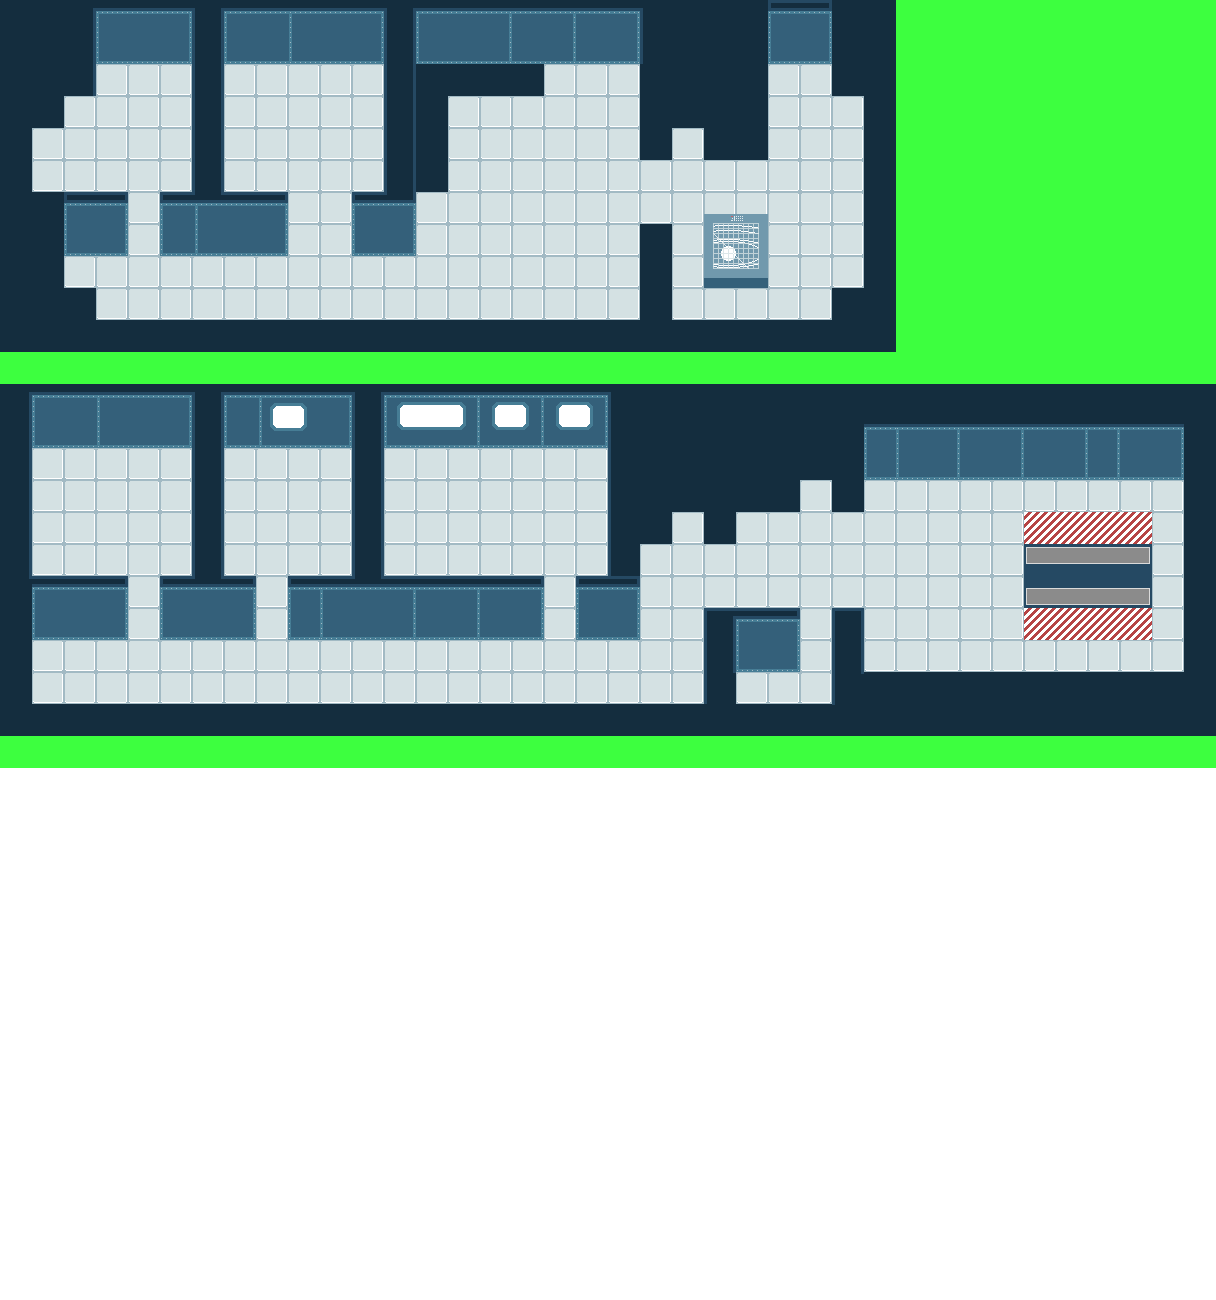
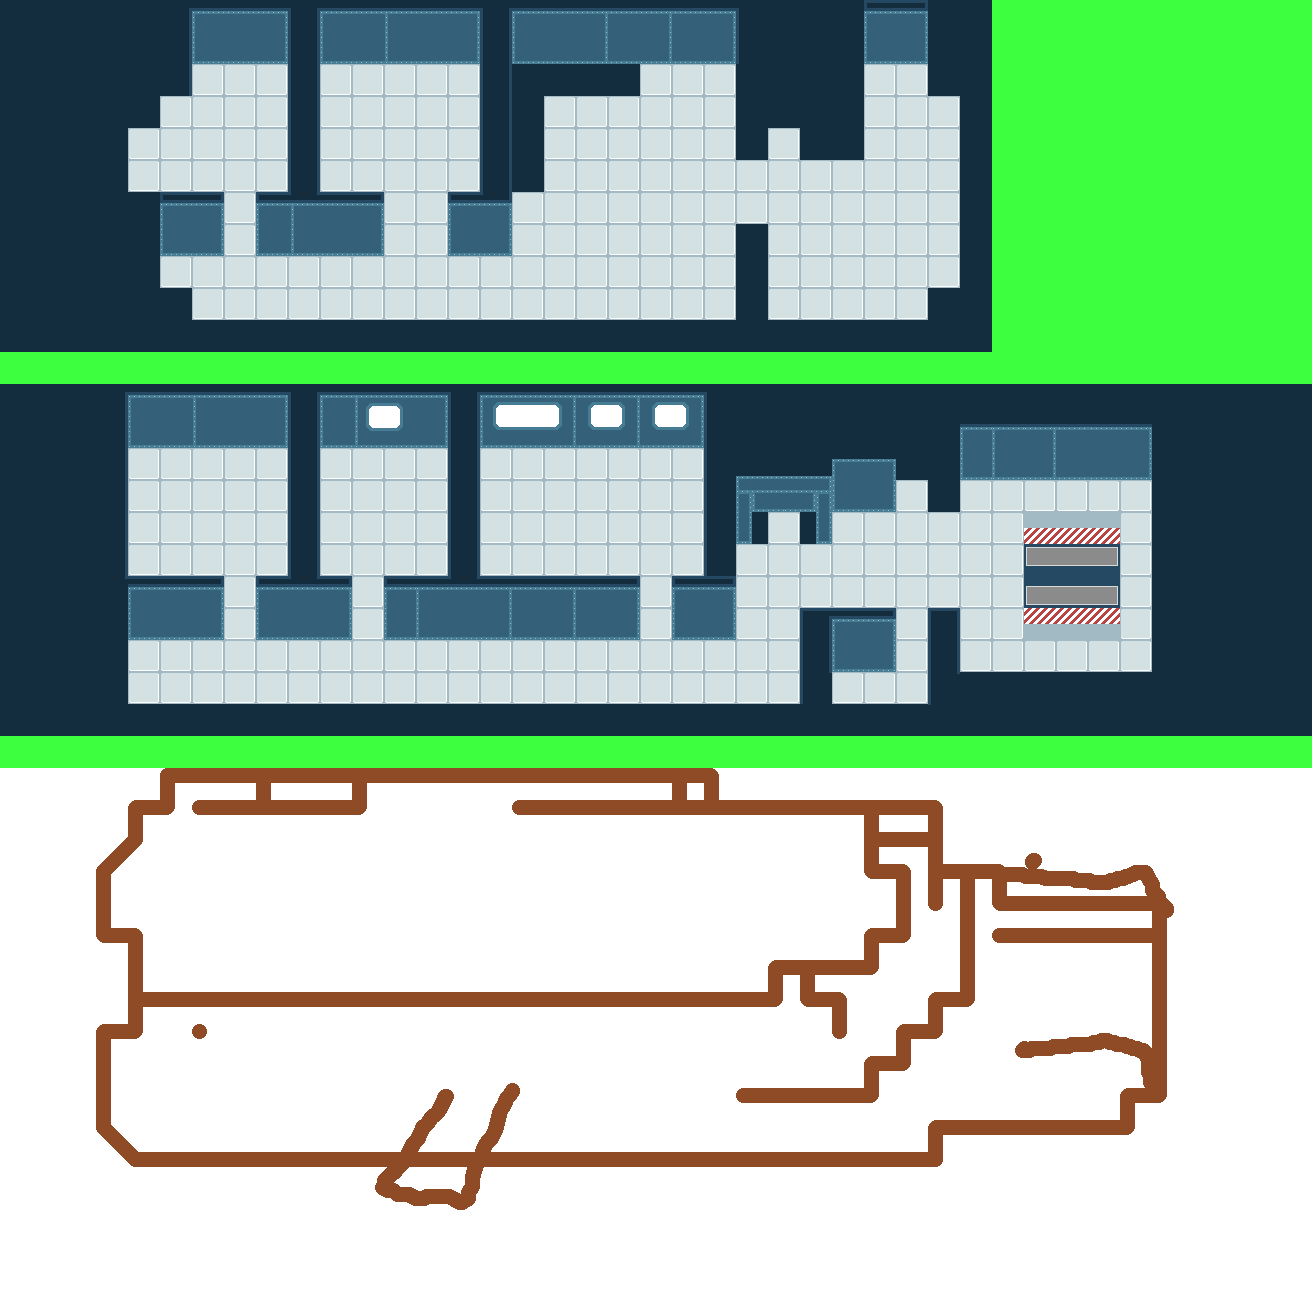
tweaks to ship image

Changed region(s): [[0.0, 0.2769, 1.0, 0.5538], [0.0, 0.0, 0.7812, 0.2769], [0.0625, 0.5846, 0.9062, 0.9538]]

diff --git a/AstroMiner/Definitions/StaticWorlds.cs b/AstroMiner/Definitions/StaticWorlds.cs
@@ -115,37 +115,37 @@ public static class StaticWorlds
                     """)
             },
             {
-                // -------------------------------------------------------0-------------------1-------------------2--------------
-                // -------------------------------------------------------0,1,2,3,4,5,6,7,8,9,0,1,2,3,4,5,6,7,8,9,0,1,2,3,4,5,6,7
-                World.ShipUpstairs, new StaticWorldConfig("ship", 28, 11, """
-                                                                          X,X,X,X,X,X,X,X,X,X,X,X,X,X,X,X,X,X,X,X,X,X,X,X,X,X,X,X
-                                                                          X,X,X,X,X,X,X,X,X,X,X,X,X,X,X,X,X,X,X,X,X,X,X,X,X,X,X,X
-                                                                          X,X,X,-,-,-,X,-,-,-,-,-,X,X,X,X,X,-,-,-,X,X,X,X,-,-,X,X
-                                                                          X,X,-,-,-,-,X,-,-,-,-,-,X,X,-,-,-,-,-,-,X,X,X,X,-,-,-,X
-                                                                          X,-,-,-,-,-,X,-,-,-,-,-,X,X,-,-,-,-,-,-,X,@,X,X,-,-,-,X
-                                                                          X,-,-,-,-,-,X,-,-,-,-,-,X,X,-,-,X,X,-,-,-,-,-,-,-,-,-,X
-                                                                          X,X,X,X,-,X,X,X,X,-,-,X,X,-,-,-,X,X,-,-,-,-,-,-,-,-,-,X
-                                                                          X,X,X,X,-,X,X,X,X,-,-,X,X,-,-,-,X,X,-,-,X,-,-,-,-,-,-,X
-                                                                          X,X,-,-,-,-,-,-,-,-,-,-,-,-,-,-,-,-,-,-,X,-,-,-,-,-,-,X
-                                                                          X,X,X,-,-,-,-,-,-,-,-,-,-,-,-,-,-,-,-,-,X,-,-,-,-,-,X,X
-                                                                          X,X,X,X,X,X,X,X,X,X,X,X,X,X,X,X,X,X,X,X,X,X,X,X,X,X,X,X
+                // -------------------------------------------------------0-------------------1-------------------2-------------------3
+                // -------------------------------------------------------0,1,2,3,4,5,6,7,8,9,0,1,2,3,4,5,6,7,8,9,0,1,2,3,4,5,6,7,8,9,0
+                World.ShipUpstairs, new StaticWorldConfig("ship", 31, 11, """
+                                                                          X,X,X,X,X,X,X,X,X,X,X,X,X,X,X,X,X,X,X,X,X,X,X,X,X,X,X,X,X,X,X
+                                                                          X,X,X,X,X,X,X,X,X,X,X,X,X,X,X,X,X,X,X,X,X,X,X,X,X,X,X,X,X,X,X
+                                                                          X,X,X,X,X,X,-,-,-,X,-,-,-,-,-,X,X,X,X,X,-,-,-,X,X,X,X,-,-,X,X
+                                                                          X,X,X,X,X,-,-,-,-,X,-,-,-,-,-,X,X,-,-,-,-,-,-,X,X,X,X,-,-,-,X
+                                                                          X,X,X,X,-,-,-,-,-,X,-,-,-,-,-,X,X,-,-,-,-,-,-,X,@,X,X,-,-,-,X
+                                                                          X,X,X,X,-,-,-,-,-,X,-,-,-,-,-,X,X,-,-,X,X,-,-,-,-,-,-,-,-,-,X
+                                                                          X,X,X,X,X,X,X,-,X,X,X,X,-,-,X,X,-,-,-,X,X,-,-,-,-,-,-,-,-,-,X
+                                                                          X,X,X,X,X,X,X,-,X,X,X,X,-,-,X,X,-,-,-,X,X,-,-,X,-,-,-,-,-,-,X
+                                                                          X,X,X,X,X,-,-,-,-,-,-,-,-,-,-,-,-,-,-,-,-,-,-,X,-,-,-,-,-,-,X
+                                                                          X,X,X,X,X,X,-,-,-,-,-,-,-,-,-,-,-,-,-,-,-,-,-,X,-,-,-,-,-,X,X
+                                                                          X,X,X,X,X,X,X,X,X,X,X,X,X,X,X,X,X,X,X,X,X,X,X,X,X,X,X,X,X,X,X
                                                                           """)
             },
             {
-                // ---------------------------------------------------------0-------------------1-------------------2-------------------3--------------
-                // ---------------------------------------------------------0,1,2,3,4,5,6,7,8,9,0,1,2,3,4,5,6,7,8,9,0,1,2,3,4,5,6,7,8,9,0,1,2,3,4,5,6,7
-                World.ShipDownstairs, new StaticWorldConfig("ship", 38, 11, """
-                                                                            X,X,X,X,X,X,X,X,X,X,X,X,X,X,X,X,X,X,X,X,X,X,X,X,X,X,X,X,X,X,X,X,X,X,X,X,X,X
-                                                                            X,X,X,X,X,X,X,X,X,X,X,X,X,X,X,X,X,X,X,X,X,X,X,X,X,X,X,X,X,X,X,X,X,X,X,X,X,X
-                                                                            X,-,-,-,-,-,X,-,-,-,-,X,-,-,-,-,-,-,-,X,X,X,X,X,X,X,X,-,-,-,-,-,-,-,-,-,-,X
-                                                                            X,-,-,-,-,-,X,-,-,-,-,X,-,-,-,-,-,-,-,X,X,X,X,X,X,@,X,-,-,-,-,-,-,-,-,-,-,X
-                                                                            X,-,-,-,-,-,X,-,-,-,-,X,-,-,-,-,-,-,-,X,X,@,X,-,-,-,-,-,-,-,-,-,-,-,-,-,-,X
-                                                                            X,-,-,-,-,-,X,-,-,-,-,X,-,-,-,-,-,-,-,X,-,-,-,-,-,-,-,-,-,-,-,-,-,-,-,-,-,X
-                                                                            X,X,X,X,-,X,X,X,-,X,X,X,X,X,X,X,X,-,X,X,-,-,-,-,-,-,-,-,-,-,-,-,-,-,-,-,-,X
-                                                                            X,X,X,X,-,X,X,X,-,X,X,X,X,X,X,X,X,-,X,X,-,-,X,X,X,-,X,-,-,-,-,-,-,-,-,-,-,X
-                                                                            X,-,-,-,-,-,-,-,-,-,-,-,-,-,-,-,-,-,-,-,-,-,X,X,X,-,X,-,-,-,-,-,-,-,-,-,-,X
-                                                                            X,-,-,-,-,-,-,-,-,-,-,-,-,-,-,-,-,-,-,-,-,-,X,-,-,-,X,-,-,-,-,-,-,-,-,-,-,X
-                                                                            X,X,X,X,X,X,X,X,X,X,X,X,X,X,X,X,X,X,X,X,X,X,X,X,X,X,X,X,X,X,X,X,X,X,X,X,X,X
+                // ---------------------------------------------------------0-------------------1-------------------2-------------------3-------------------4
+                // ---------------------------------------------------------0,1,2,3,4,5,6,7,8,9,0,1,2,3,4,5,6,7,8,9,0,1,2,3,4,5,6,7,8,9,0,1,2,3,4,5,6,7,8,9,0
+                World.ShipDownstairs, new StaticWorldConfig("ship", 41, 11, """
+                                                                            X,X,X,X,X,X,X,X,X,X,X,X,X,X,X,X,X,X,X,X,X,X,X,X,X,X,X,X,X,X,X,X,X,X,X,X,X,X,X,X,X
+                                                                            X,X,X,X,X,X,X,X,X,X,X,X,X,X,X,X,X,X,X,X,X,X,X,X,X,X,X,X,X,X,X,X,X,X,X,X,X,X,X,X,X
+                                                                            X,X,X,X,-,-,-,-,-,X,-,-,-,-,X,-,-,-,-,-,-,-,X,X,X,X,X,X,X,X,X,X,X,X,X,X,X,X,X,X,X
+                                                                            X,X,X,X,-,-,-,-,-,X,-,-,-,-,X,-,-,-,-,-,-,-,X,X,X,X,X,X,@,X,-,-,-,-,-,-,X,X,X,X,X
+                                                                            X,X,X,X,-,-,-,-,-,X,-,-,-,-,X,-,-,-,-,-,-,-,X,X,@,X,-,-,-,-,-,-,-,-,-,-,X,X,X,X,X
+                                                                            X,X,X,X,-,-,-,-,-,X,-,-,-,-,X,-,-,-,-,-,-,-,X,-,-,-,-,-,-,-,-,-,-,-,-,-,X,X,X,X,X
+                                                                            X,X,X,X,X,X,X,-,X,X,X,-,X,X,X,X,X,X,X,X,-,X,X,-,-,-,-,-,-,-,-,-,-,-,-,-,X,X,X,X,X
+                                                                            X,X,X,X,X,X,X,-,X,X,X,-,X,X,X,X,X,X,X,X,-,X,X,-,-,X,X,X,-,X,-,-,-,-,-,-,X,X,X,X,X
+                                                                            X,X,X,X,-,-,-,-,-,-,-,-,-,-,-,-,-,-,-,-,-,-,-,-,-,X,X,X,-,X,-,-,-,-,-,-,X,X,X,X,X
+                                                                            X,X,X,X,-,-,-,-,-,-,-,-,-,-,-,-,-,-,-,-,-,-,-,-,-,X,-,-,-,X,X,X,X,X,X,X,X,X,X,X,X
+                                                                            X,X,X,X,X,X,X,X,X,X,X,X,X,X,X,X,X,X,X,X,X,X,X,X,X,X,X,X,X,X,X,X,X,X,X,X,X,X,X,X,X
                                                                             """, 12)
             }
         };

diff --git a/AstroMiner/NewGameManager.cs b/AstroMiner/NewGameManager.cs
@@ -30,20 +30,20 @@ public class NewGameManager(BaseGame game)
     private void SetUpStaticEntitiesTEMP()
     {
         // Bedroom
-        game.StateManager.Ecs.Factories.CreateWindowLightSourceEntity(World.ShipDownstairs, new Vector2(13.5f, 1f));
-        game.StateManager.Ecs.Factories.CreateWindowLightSourceEntity(World.ShipDownstairs, new Vector2(15.95f, 1f));
-        game.StateManager.Ecs.Factories.CreateWindowLightSourceEntity(World.ShipDownstairs, new Vector2(17.95f, 1f));
-        game.StateManager.Ecs.Factories.CreateSlidingDoorEntity(World.ShipDownstairs, new Vector2(4f, 7.82f));
-        game.StateManager.Ecs.Factories.CreateSlidingDoorEntity(World.ShipDownstairs, new Vector2(8f, 7.82f));
-        game.StateManager.Ecs.Factories.CreateSlidingDoorEntity(World.ShipDownstairs, new Vector2(17f, 7.82f));
+        game.StateManager.Ecs.Factories.CreateWindowLightSourceEntity(World.ShipDownstairs, new Vector2(16.5f, 1f));
+        game.StateManager.Ecs.Factories.CreateWindowLightSourceEntity(World.ShipDownstairs, new Vector2(18.95f, 1f));
+        game.StateManager.Ecs.Factories.CreateWindowLightSourceEntity(World.ShipDownstairs, new Vector2(20.95f, 1f));
+        game.StateManager.Ecs.Factories.CreateSlidingDoorEntity(World.ShipDownstairs, new Vector2(7f, 7.82f));
+        game.StateManager.Ecs.Factories.CreateSlidingDoorEntity(World.ShipDownstairs, new Vector2(11f, 7.82f));
+        game.StateManager.Ecs.Factories.CreateSlidingDoorEntity(World.ShipDownstairs, new Vector2(20f, 7.82f));
 
         // Corridor
-        game.StateManager.Ecs.Factories.CreateWindowLightSourceEntity(World.ShipDownstairs, new Vector2(21f, 10f));
-        game.StateManager.Ecs.Factories.CreateWindowLightSourceEntity(World.ShipDownstairs, new Vector2(15f, 10f));
-        game.StateManager.Ecs.Factories.CreateWindowLightSourceEntity(World.ShipDownstairs, new Vector2(9f, 10f));
+        game.StateManager.Ecs.Factories.CreateWindowLightSourceEntity(World.ShipDownstairs, new Vector2(24f, 10f));
+        game.StateManager.Ecs.Factories.CreateWindowLightSourceEntity(World.ShipDownstairs, new Vector2(18f, 10f));
+        game.StateManager.Ecs.Factories.CreateWindowLightSourceEntity(World.ShipDownstairs, new Vector2(12f, 10f));
 
         // Hangar
-        game.StateManager.Ecs.Factories.CreateCeilingLightSourceEntity(World.ShipDownstairs, new Vector2(34f, 6f));
+        game.StateManager.Ecs.Factories.CreateCeilingLightSourceEntity(World.ShipDownstairs, new Vector2(33.5f, 6f));
 
         game.StateManager.Ecs.Factories.CreateLaunchConsoleEntity();
 

diff --git a/AstroMiner/ECS/EntityFactories.cs b/AstroMiner/ECS/EntityFactories.cs
@@ -54,7 +54,7 @@ public class EntityFactories
         positionComponent.World = World.ShipDownstairs;
         positionComponent.WidthPx = GameConfig.MinerBoxSizePx;
         positionComponent.HeightPx = GameConfig.MinerBoxSizePx;
-        positionComponent.SetCenterPosition(new Vector2(34f, 6f));
+        positionComponent.SetCenterPosition(new Vector2(33.5f, 6f));
         positionComponent.IsCollideable = true;
 
         // Add direction component
@@ -208,7 +208,7 @@ public class EntityFactories
 
         var positionComponent = _ecs.AddComponent<PositionComponent>(entityId);
         positionComponent.World = World.ShipUpstairs;
-        positionComponent.Position = new Vector2(22, 7);
+        positionComponent.Position = new Vector2(25, 7);
         positionComponent.WidthPx = 64;
         positionComponent.HeightPx = 64;
         positionComponent.IsCollideable = true;

diff --git a/AstroMiner/Definitions/Coordinates.cs b/AstroMiner/Definitions/Coordinates.cs
@@ -23,9 +23,9 @@ public static class Coordinates
         public static readonly (int x, int y) MinExToHomePortal = (3, 7);
 
         public static readonly (int x, int y) KrevikToShipDownstairsPortal = (11, 6);
-        public static readonly (int x, int y) ShipDownstairsToKrevikPortal = (25, 3);
+        public static readonly (int x, int y) ShipDownstairsToKrevikPortal = (28, 3);
 
-        public static readonly (int x, int y) ShipDownstairsToShipUpstairsPortal = (21, 4);
-        public static readonly (int x, int y) ShipUpstairsToShipDownstairsPortal = (21, 4);
+        public static readonly (int x, int y) ShipDownstairsToShipUpstairsPortal = (24, 4);
+        public static readonly (int x, int y) ShipUpstairsToShipDownstairsPortal = (24, 4);
     }
 }
